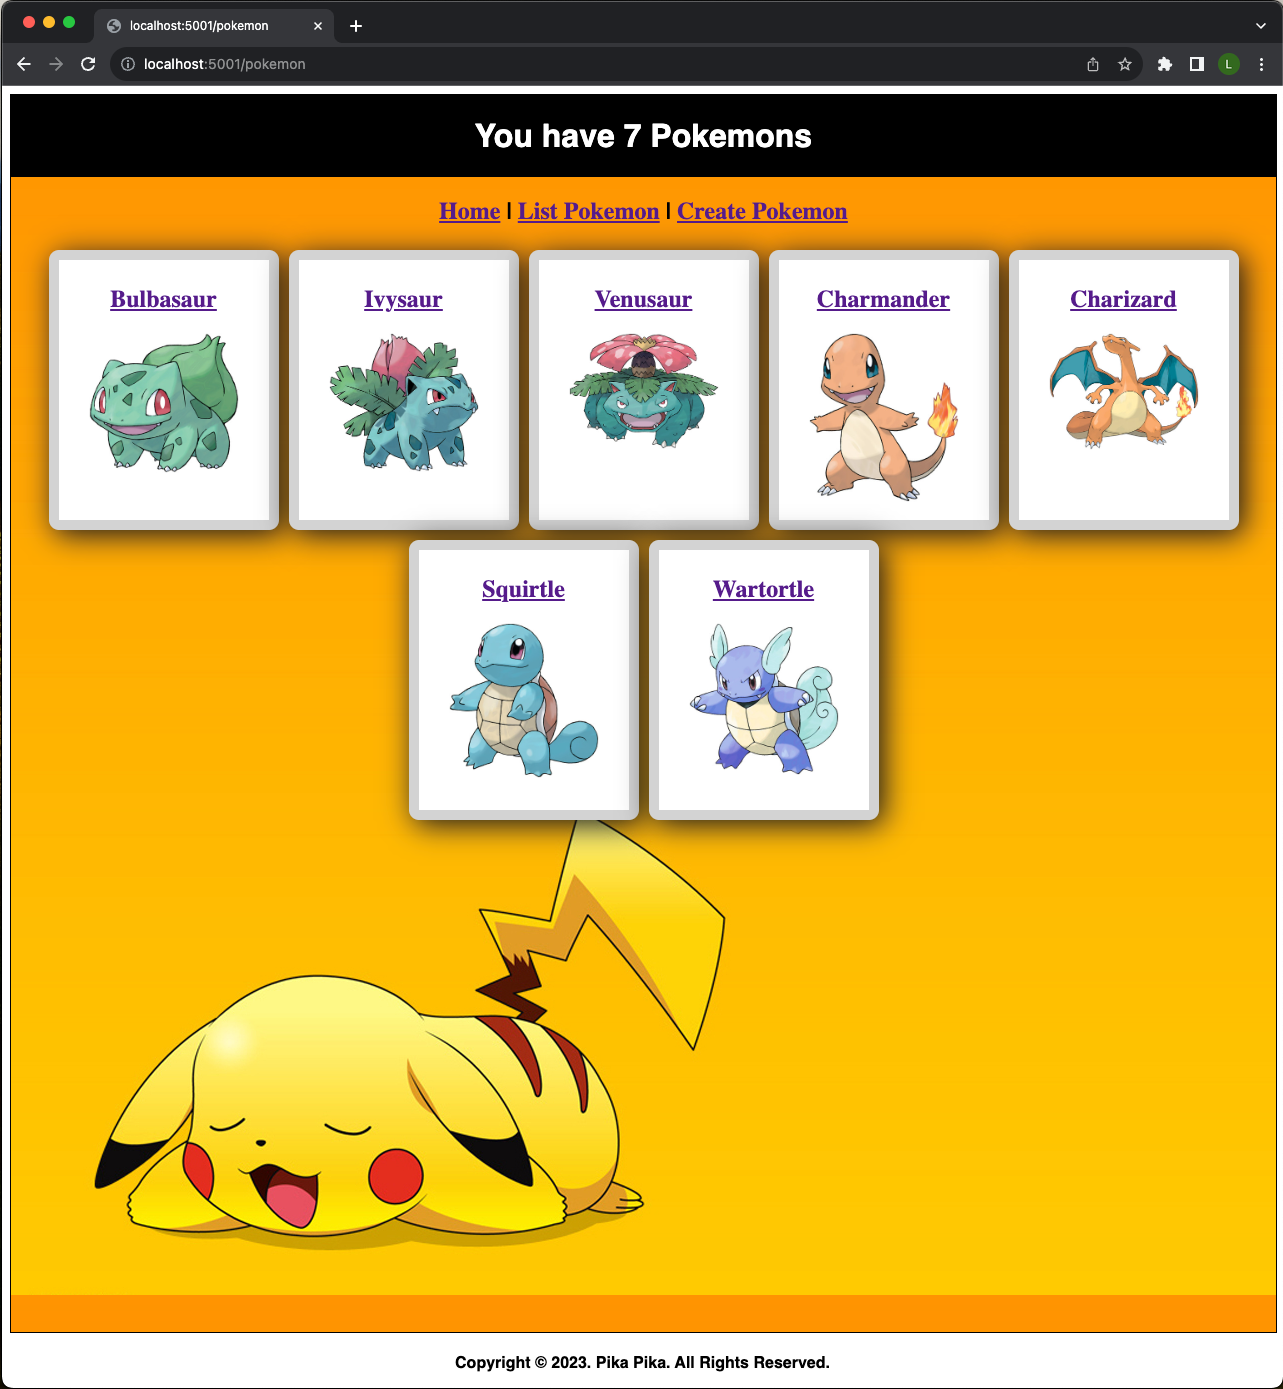
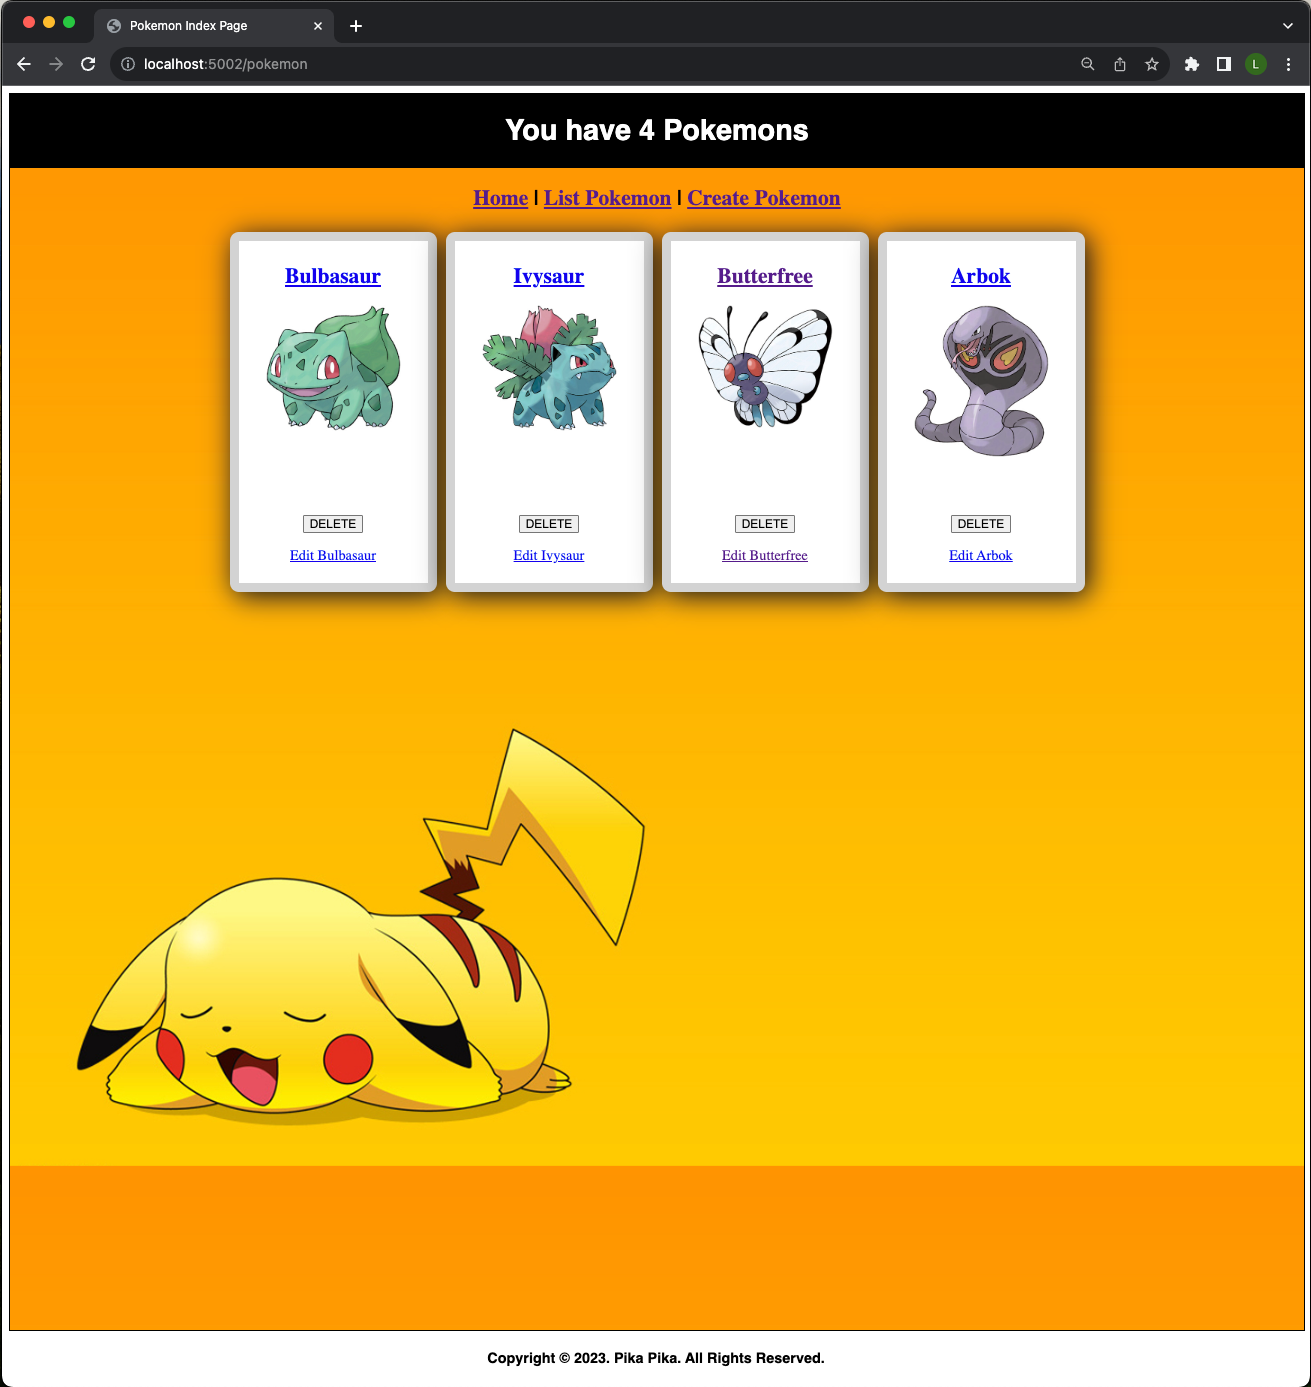
Modified/Added images for gtbhub readme.md and edited card display

diff --git a/views/Index.jsx b/views/Index.jsx
@@ -43,13 +43,16 @@ const Index = ({pokemon}) => {
 
 
     const card = {
+
       width: '200px',
       height: '370px',
       border: '10px solid lightgrey',
       borderRadius: '10px',
       margin: '5px',
       padding: '5px',
-      display: 'inline-block',
+      display: 'flex',
+      flexDirection: 'column',
+      justifyContent: 'space-between',
       backgroundColor: 'white',
       boxShadow: '5px 5px 30px #141414'
     }
@@ -90,18 +93,26 @@ const Index = ({pokemon}) => {
                     pokemon.map((poke, i) => (
                       <>
                         <div style={card} key={i}>
+
+                          <div>
                             <h2><a href={`/pokemon/${poke.id}`}> {poke.name[0].toUpperCase() + poke.name.slice(1)} </a></h2>
-                            <img style={img} src={poke.img + '.jpg'} alt={poke.name} />
-                            {/* <h3>{poke.readyToFight ? 'Ready to FIGHT!' : 'Cowards away...!'}</h3> */}
-                            <p>
-                              <form method='POST' action={`/pokemon/${poke._id}?_method=DELETE`}>
-                              {/* Delete button */}
-                                  <input type="submit" value="DELETE"/>
-                              </form>
-                            </p>
-                            <p>
-                              <a href={`/pokemon/${poke._id}/edit`}> Edit {poke.name[0].toUpperCase() + poke.name.slice(1)} </a>
-                            </p>
+                                <img style={img} src={poke.img + '.jpg'} alt={poke.name} />
+                                {/* <h3>{poke.readyToFight ? 'Ready to FIGHT!' : 'Cowards away...!'}</h3> */}
+                                
+                          </div>
+
+                            <div>
+                              <p>
+                                <form method='POST' action={`/pokemon/${poke._id}?_method=DELETE`}>
+                                {/* Delete button */}
+                                    <input type="submit" value="DELETE"/>
+                                </form>
+                              </p>
+                              <p>
+                                <a href={`/pokemon/${poke._id}/edit`}> Edit {poke.name[0].toUpperCase() + poke.name.slice(1)} </a>
+                              </p>
+                            </div>
+
                         </div>
                        </> 
                     )) 
